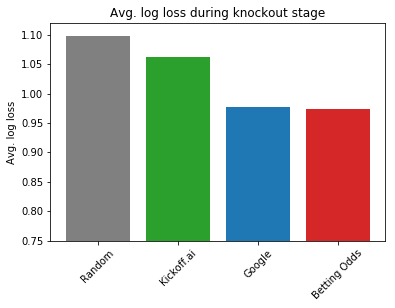
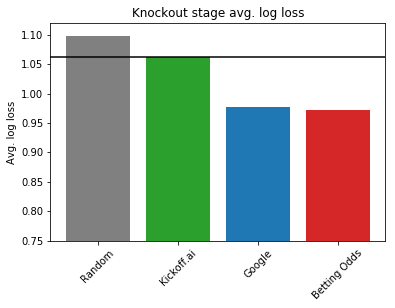
A few changes in draft WC2018 analysis.
Implemented Lucas' suggestions, corrected some typos, and reformulated
some sentences.

I also added the data to be downloaded and new figures.

Changed region(s): [[0.1215, 0.1753, 0.9722, 0.2045], [0.2734, 0.0292, 0.8203, 0.0877], [0.7899, 0.3506, 0.9114, 0.3799]]

diff --git a/_drafts/world-cup-2018-analysis.md b/_drafts/world-cup-2018-analysis.md
@@ -4,15 +4,15 @@ title:  "A Surprising World Cup? Not so fast..."
 author: "Victor Kristof"
 ---
 
-*Bravo les Bleus!* The best team in the competition won the World Cup 2018 in
-Russia. For the [final match][final], Kickoff.ai gave 47% chances of winning to
-France, 25% chances to Croatia, and 21% chances of a draw after 90 minutes.  And
-this year, with the Croatian outsiders reaching the final after an epic journey,
-many surprises seem to have occurred.  We'll see however that, quantitatively,
-this World Cup has been easier to predict in comparison to other editions.
-We provide in this article an evaluation of our model's
-performance and compare it to Google's, [FiveThirtyEight][538]'s, and
-to predictions derived from betting odds.
+*Bravo les Bleus!* According to our model, France had 6% chances of winning the
+competition. For the [final match][final], Kickoff.ai gave 47% chances of
+winning to France, 25% chances to Croatia, and 21% chances of a draw after 90
+minutes.  And with the Croatian outsiders reaching the final after an epic
+journey, many report that this year's edition was particularly surprising.
+We'll see however that, quantitatively, this World Cup has been easier to
+predict in comparison to previous editions.  We provide in this article an
+evaluation of our model's performance and compare it to Google's,
+[FiveThirtyEight][538]'s, and to predictions derived from betting odds.
 
 ## Behind the scenes
 
@@ -46,39 +46,39 @@ of the World Cup.
    well (or bad) teams actually perform during the competition.
 
 We also tried to model other aspects. We tried to add a *host advantage* to the
-team hosting the competition (i.e., Russia in 2018). We also tried to add a
-*crowd advantage*, i.e., a home advantage specific to each team. However, these
-factors were not helpful in increasing the predictive performance.
+team hosting the competition (i.e., Russia in 2018). We also tried to add
+a *crowd advantage*, i.e., a home advantage specific to each team. However,
+these factors were not helpful in increasing the predictive performance.
 
-In summary, our predictions come from a combination of the Kickscore and of the
+In summary, our predictions come from a combination of the Kickscore, and of
 home and competition advantages. The uncertainty in the data can be effectively
 quantified through the use of Bayesian inference. We retrain the model after
 every day to make sure that the most recent results are taken into account.
 
 ## How well did our model perform?
 
-Now that the World Cup is over, we can evaluate how well our model performed. 
+Now that the World Cup is over, we can evaluate how well our model performed.
 It might be tempting to compare the *accuracy* of models by
 
 1. reducing the outcome probabilities to a single, most-likely outcome, and
 2. check how many times the predicted outcome was correct.
 
-But this is rather crude, and loses a lot of meaningful information
-contained in these probabilities. Of course nobody could have reasonably predicted a German
+But this is rather crude, and loses a lot of meaningful information contained in
+these probabilities. Of course nobody could have reasonably predicted a German
 loss against South Korea. But just how much likely was this outcome? Was it 1%?
 Was it 5%? 20%? ([Our model says it was 10%.][korger]) In a higly uncertain
 sport such as football, getting accurate estimates of the *probability* of such
-events to occur is very important,
+events to occur is very important.
 
-Hence, we use a metric called [*logarithmic loss*][quora-logloss] (or *log loss*). Informally,
-the log loss penalizes predictions that are both **confident** and **wrong**.
-It gives a number between 0 (the prediction was highly confidently correct) and
-infinity (the prediction was highly confidently wrong), so: the smaller the log
-loss, the better. In other words, this metric rewards predictors which are "least
-surprised" by the observed outcome, on average. We acknowledge
-that it is difficult to interpret the log-loss in absolute terms. What does it
-mean for a model to achieve an average log loss of, say, 1.315? The log loss is
-only meaningful in comparison to other models.
+Hence, we use a metric called [*logarithmic loss*][quora-logloss] (or *log
+loss*). Informally, the log loss penalizes predictions that are both
+**confident** and **wrong**.  It gives a number between 0 (the prediction was
+highly confidently correct) and infinity (the prediction was highly confidently
+wrong), so: the smaller the log loss, the better. In other words, this metric
+rewards predictors which are "least surprised" by the observed outcome, on
+average. We acknowledge that it is difficult to interpret the log loss in
+absolute terms. What does it mean for a model to achieve an log loss of, say,
+1.315? The log loss is only meaningful in comparison to other models.
 
 This year, many organisations provided forecasts prior to the World Cup. We kept
 track of the following ones:
@@ -106,13 +106,13 @@ the knockout phase, we consider the group stage (48 matches) and knockout stage
 _Group stage average log loss. Lower is better._
 
 As we can see in the above plots, Kickoff.ai’s average log loss (0.925) is
-between Google’s (0.933) and FiveThirtyEight’s (0.918). It also better than
-the betting odds. Given the complexity of FiveThirtyEight's approach, the
-performance of our model is remarkable on the group stage.
+between Google’s (0.933) and FiveThirtyEight’s (0.918). It is also better than
+the betting odds (0.931). Given the complexity of FiveThirtyEight's approach,
+the performance of our model is remarkable on the group stage.
 
 Let’s dig into more details about how the performances evolved over time. We
-hence plot the *cumulative* average log loss, i.e. the average log loss match
-after match.
+plot the *cumulative* average log loss, i.e. the log loss averaged match after
+match.
 
 ![Group stage cumulative average log loss.](/assets/posts/wc18-analysis/grp-cumavg.png)
 _Group stage cumulative average log loss. Lower is better._
@@ -120,19 +120,19 @@ _Group stage cumulative average log loss. Lower is better._
 As we can see, Kickoff.ai’s model performs worse than competing approaches for
 about 30 matches, but catches up in the end, outperforming Google and the
 betting odds. In particular, the 7<sup>th</sup> match—Peru versus Denmark—costed
-us a lot. We were very confident that Peru would win (45%). Our model
-progressively reached back. First, with the 26<sup>th</sup> match—Serbia versus
-Switzerland—where we were confident in a Swiss win (47%). Then, with the
-32<sup>nd</sup> match—Uruguay versus Russia—where we correctly predicted
-Uruguay's win with confidence (54%). On both matches, other models were more
-hesitating or wrong.
+us a lot. We were too confident that Peru would win (45%), when the other models
+were giving Denmark favorite (42%). Our model progressively reached back. First,
+with the 26<sup>th</sup> match—Serbia versus Switzerland—where we gave a Swiss
+win 47% chances to occur. Then, with the 32<sup>nd</sup> match—Uruguay versus
+Russia—where we correctly predicted Uruguay's win with confidence (54%). On both
+matches, other models were more hesitating or wrong.
 
 It is also interesting to observe how closely Google performance follows the
 betting odds. So close that it is legitimate to ask whether their model is not
 actually solely based on betting odds...
 
-The results for knockout stage are rather different. We show in the following
-figure the performances on the last 16 matches of the World Cup.
+The results the for knockout stage are rather different. We show in the
+following figure the performances on the last 16 matches of the World Cup.
 
 ![Knockout stage average log loss.](/assets/posts/wc18-analysis/ko-bar.png)
 _Knockout stage average log loss. Lower is better._
@@ -163,11 +163,11 @@ All of this looks like a surprising World Cup. So we evaluated the performances
 of our model on previous editions. We show the results in the following figure.
 
 ![Average log loss on previous competitions.](/assets/posts/wc18-analysis/previous.png)
-_Average log loss on other editions. Lower is better._
+_Average log loss on previous World Cup editions. Lower is better._
 
 As you can see, our model's performances during World Cup 2018's edition are
 actually better than the previous two editions. This suggests that there were
-more surprises in 2010 and 2014 than this year.
+more surprise in 2010 and 2014 than this year.
 
 ## What’s next?
 
@@ -185,8 +185,7 @@ Stay tuned by [subscribing to our mailing list!][mailchimp]!
 
 #### Prediction data
 
-You can find the prediction data we used to evaluate the different models
-[here]().
+[Download](data) the prediction data we used to evaluate the different models.
 
 #### Questions? Comments?
 
@@ -202,3 +201,4 @@ You can find the prediction data we used to evaluate the different models
 [teams]: http://kickoff.ai/teams
 [mailchimp]: http://eepurl.com/b5lQuP
 [email]: mailto:info@kickoff.ai
+[data]: /assets/data/wc2018-probabilities.csv
